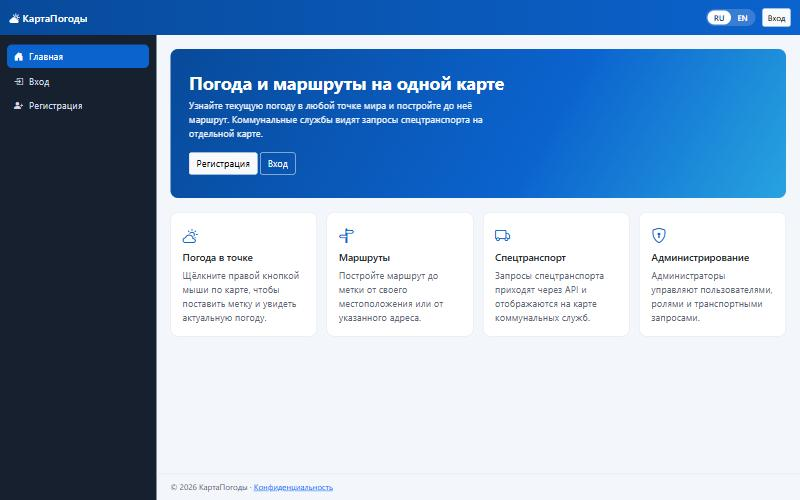
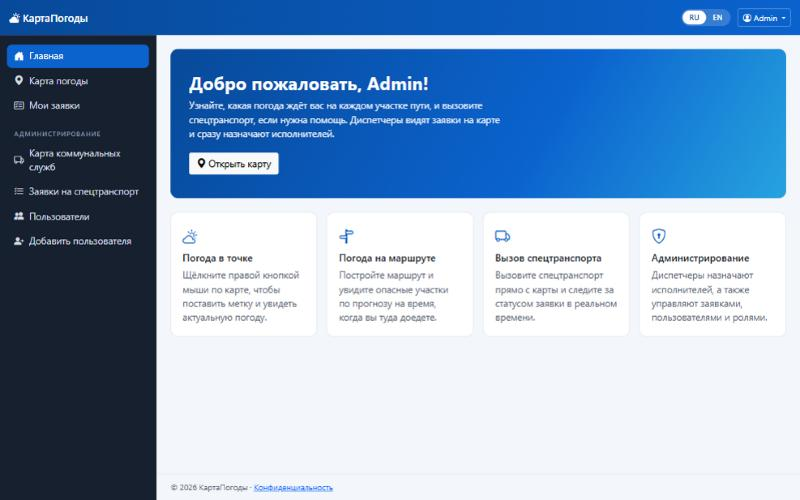
docs: describe route weather and transport dispatch
Update features, architecture, API and screenshots in both READMEs.

diff --git a/README.md b/README.md
@@ -9,9 +9,11 @@
 
 ## Возможности
 
-- **Погода в точке.** Правый клик по карте ставит метку и показывает текущую погоду от OpenWeather на языке интерфейса. Ответы кешируются на 10 минут.
+- **Погода вдоль маршрута.** Маршрут делится на участки, и для каждого берётся прогноз на время, когда вы туда доедете. Опасные участки окрашиваются на карте и перечисляются с причиной: гололёд, снег, ливень, ветер, плохая видимость, гроза. Можно сравнить разное время выезда.
+- **Заявки на спецтранспорт.** Заявку можно отправить с карты или прямо с опасного участка. Статусы: новая → в работе → выполнена или отменена. Автор и исполнитель видят свои заявки на отдельной странице.
+- **Рабочее место диспетчера.** Заявки, фильтр по статусу и назначение исполнителя, открытые заявки на карте. Новые заявки и смена статусов приходят сразу, без перезагрузки страницы (SignalR).
+- **Погода в точке.** Правый клик по карте ставит метку и показывает текущую погоду от OpenWeather на языке интерфейса.
 - **Маршруты.** От вашего местоположения или от адреса, с длиной и временем в пути (Яндекс Карты).
-- **Спецтранспорт.** Пользователи создают запросы через API, администраторы видят их на карте и в таблице.
 - **Администрирование.** Пользователи и роли; нельзя удалить себя и последнего администратора.
 - **Два языка.** Русский и английский с переключателем в шапке.
 - **REST API.** Swagger, JWT, единый формат ошибок ProblemDetails.
@@ -19,18 +21,22 @@
 ## Интерфейс
 
 <p>
-  <img src="docs/screenshots/weather-map-ru.jpg" alt="Погода в выбранной точке" width="49%" />
-  <img src="docs/screenshots/route-en.jpg" alt="Маршрут на английском интерфейсе" width="49%" />
+  <img src="docs/screenshots/route-weather-ru.jpg" alt="Опасные участки на маршруте" width="49%" />
+  <img src="docs/screenshots/route-weather-list-ru.jpg" alt="Прогноз по участкам маршрута" width="49%" />
 </p>
 <p>
-  <img src="docs/screenshots/utility-map-en.jpg" alt="Карта запросов спецтранспорта" width="49%" />
+  <img src="docs/screenshots/transport-live-ru.jpg" alt="Заявка появилась у диспетчера без перезагрузки" width="49%" />
+  <img src="docs/screenshots/utility-map-ru.jpg" alt="Открытые заявки на карте диспетчера" width="49%" />
+</p>
+<p>
+  <img src="docs/screenshots/weather-map-ru.jpg" alt="Погода в выбранной точке" width="49%" />
   <img src="docs/screenshots/home-ru.jpg" alt="Главная страница" width="49%" />
 </p>
-<p><img src="docs/screenshots/mobile-en.jpg" alt="Карта на телефоне" width="240" /></p>
+<p><img src="docs/screenshots/mobile-ru.jpg" alt="Карта на телефоне" width="240" /></p>
 
 ## Стек
 
-.NET 10 · ASP.NET Core (Razor Pages + Web API) · EF Core · SQL Server · JWT и cookie-аутентификация · Serilog · Polly · xUnit · Docker · GitHub Actions
+.NET 10 · ASP.NET Core (Razor Pages + Web API) · SignalR · EF Core · SQL Server · JWT и cookie-аутентификация · Serilog · Polly · xUnit · Docker · GitHub Actions
 
 ## Архитектура
 
@@ -47,6 +53,7 @@ flowchart LR
     Repos --> Db[("SQL Server")]
     Repos -- "кеш 10 мин, повторы" --> OpenWeather["OpenWeather"]
     Browser --> Yandex["Яндекс Карты"]
+    Pages -. "SignalR: статусы заявок" .-> Browser
 ```
 
 Заметные решения:
@@ -55,6 +62,10 @@ flowchart LR
 - **Две схемы входа.** Браузер использует HttpOnly-cookie, клиенты API — JWT. Схему выбирает заголовок `Authorization`.
 - **Роль не приходит от клиента.** Публичная регистрация всегда создаёт обычного пользователя, автор запроса на транспорт берётся из токена.
 - **Секреты вне репозитория.** Настройки проверяются при запуске; без ключа JWT приложение не стартует и объясняет почему.
+- **Экономия лимитов API.** На маршрут уходит не больше 20 запросов прогноза, ответы кешируются на 30 минут по ячейкам около 10 км, а у каждого пользователя есть лимит проверок в минуту. Если прогноз не загрузился для одной точки, она помечается как неизвестная, а не безопасная.
+- **Статусы как конечный автомат.** Переходы и права собраны в одном классе, а токен параллелизма не даёт двум диспетчерам одновременно изменить заявку.
+
+Пороги риска — практическая оценка, а не официальный стандарт дорожной безопасности. Время прибытия рассчитывается по маршруту Яндекса без учёта будущих пробок, а прогноз имеет шаг 3 часа.
 
 ## Локализация
 
@@ -97,7 +108,7 @@ dotnet run --launch-profile https
 
 ### Обновление существующей базы
 
-Миграция `HardenSchema` переименовывает столбцы с сохранением данных, сокращает длины полей и добавляет уникальный индекс на email. Если в базе есть повторяющиеся email, миграция остановится с ошибкой: дубликаты нужно убрать заранее. Перед применением сделайте резервную копию.
+Миграция `HardenSchema` переименовывает столбцы с сохранением данных, сокращает длины полей и добавляет уникальный индекс на email. Если в базе есть повторяющиеся email, миграция остановится с ошибкой: дубликаты нужно убрать заранее. Миграция `TransportWorkflow` добавляет статус и исполнителя, существующие заявки становятся новыми. Перед применением сделайте резервную копию.
 
 ## Тесты
 
@@ -105,10 +116,10 @@ dotnet run --launch-profile https
 dotnet test
 ```
 
-- **UnitTests** — контроллеры и `WeatherRepo`: кеш, формат координат при русской культуре, отсутствие ключа API в ошибках.
-- **IntegrationTests** — приложение целиком через `WebApplicationFactory` на SQLite: права доступа, поддельные токены и cookie, повышение привилегий, XSS, ограничение попыток входа, переключение языка, полнота переводов.
+- **UnitTests** — правила оценки риска, разбиение маршрута, выбор прогноза по времени прибытия, переходы статусов, контроллеры и `WeatherRepo`.
+- **IntegrationTests** — приложение целиком через `WebApplicationFactory` на SQLite: права доступа, поддельные токены и cookie, повышение привилегий, XSS, лимиты запросов, жизненный цикл заявок, доставка уведомлений через SignalR, переключение языка, полнота переводов.
 
-Интеграционные тесты не проверяют миграции SQL Server и работу карт Яндекса в браузере.
+Автотесты не проверяют миграции SQL Server и работу карт Яндекса в браузере: это проверяется вручную.
 
 ## API
 
@@ -117,17 +128,22 @@ dotnet test
 | POST | `/api/auth/register` | все | Регистрация |
 | POST | `/api/auth/login` | все | Получение JWT |
 | GET | `/api/weather?lat=&lon=` | вход | Погода в точке |
-| POST | `/api/transport-requests` | вход | Запрос транспорта |
-| GET | `/api/transport-requests`, `/{id}` | админ | Просмотр запросов |
+| POST | `/api/weather/route` | вход | Оценка погоды вдоль маршрута |
+| POST | `/api/transport-requests` | вход | Создание заявки |
+| GET | `/api/transport-requests/mine` | вход | Мои заявки |
+| GET | `/api/transport-requests?status=`, `/{id}` | админ | Просмотр заявок |
+| POST | `/api/transport-requests/{id}/assign` | админ | Назначение исполнителя |
+| POST | `/api/transport-requests/{id}/complete` | админ, исполнитель | Завершение заявки |
+| POST | `/api/transport-requests/{id}/cancel` | админ, автор новой заявки | Отмена заявки |
 | PUT, DELETE | `/api/transport-requests/{id}` | админ | Изменение и удаление |
 | GET, POST | `/api/users` | админ | Список и создание пользователей |
 | GET, PUT, DELETE | `/api/users/{email}` | админ | Просмотр, изменение, удаление |
 | GET | `/health` | все | Состояние приложения и базы |
 
-Полное описание — в Swagger.
+Полное описание — в Swagger. Уведомления приходят через хаб SignalR `/hubs/transport`, событие `requestChanged`.
 
 ## Планы
 
-- Погода вдоль всего маршрута с подсветкой опасных участков.
-- Прогноз на несколько дней и погодные оповещения.
-- Создание запроса на транспорт прямо с карты и статусы его выполнения.
+- Погодные оповещения по сохранённым маршрутам: письмо или Telegram.
+- Прогноз на несколько дней и погодные слои на карте.
+- Панель аналитики: заявки по дням и районам.

diff --git a/README.en.md b/README.en.md
@@ -9,9 +9,11 @@ An ASP.NET Core web application: current weather at any point on a map, routes t
 
 ## Features
 
-- **Weather at a point.** Right-click the map to place a marker and see the current OpenWeather conditions in the interface language. Responses are cached for 10 minutes.
+- **Weather along the route.** A route is split into stretches, each rated by the forecast for when you get there. Dangerous stretches are coloured on the map and listed with the reason: ice, snow, heavy rain, wind, poor visibility or a thunderstorm. You can compare departure times.
+- **Special transport requests.** Send a request from the map or right from a dangerous stretch. Statuses: new → in progress → completed or cancelled. Authors and assignees see their requests on a dedicated page.
+- **Dispatcher workspace.** Requests with a status filter and assignment, open requests on a map. New requests and status changes arrive instantly, without a page reload (SignalR).
+- **Weather at a point.** Right-click the map to place a marker and see the current OpenWeather conditions in the interface language.
 - **Routes.** From your location or from an address, with distance and travel time (Yandex Maps).
-- **Special transport.** Users create requests through the API; administrators see them on a map and in a table.
 - **Administration.** Users and roles; you cannot delete yourself or the last administrator.
 - **Two languages.** Russian and English with a switcher in the header.
 - **REST API.** Swagger, JWT and a uniform ProblemDetails error format.
@@ -19,18 +21,22 @@ An ASP.NET Core web application: current weather at any point on a map, routes t
 ## Screenshots
 
 <p>
-  <img src="docs/screenshots/weather-map-ru.jpg" alt="Weather at the chosen point" width="49%" />
-  <img src="docs/screenshots/route-en.jpg" alt="A route in the English interface" width="49%" />
+  <img src="docs/screenshots/route-weather-ru.jpg" alt="Dangerous stretches on a route" width="49%" />
+  <img src="docs/screenshots/route-weather-list-ru.jpg" alt="Forecast for each stretch of the route" width="49%" />
 </p>
 <p>
-  <img src="docs/screenshots/utility-map-en.jpg" alt="Map of special transport requests" width="49%" />
+  <img src="docs/screenshots/transport-live-ru.jpg" alt="A request reaching the dispatcher without a reload" width="49%" />
+  <img src="docs/screenshots/utility-map-ru.jpg" alt="Open requests on the dispatcher map" width="49%" />
+</p>
+<p>
+  <img src="docs/screenshots/weather-map-ru.jpg" alt="Weather at the chosen point" width="49%" />
   <img src="docs/screenshots/home-ru.jpg" alt="Home page" width="49%" />
 </p>
-<p><img src="docs/screenshots/mobile-en.jpg" alt="The map on a phone" width="240" /></p>
+<p><img src="docs/screenshots/mobile-ru.jpg" alt="The map on a phone" width="240" /></p>
 
 ## Stack
 
-.NET 10 · ASP.NET Core (Razor Pages + Web API) · EF Core · SQL Server · JWT and cookie authentication · Serilog · Polly · xUnit · Docker · GitHub Actions
+.NET 10 · ASP.NET Core (Razor Pages + Web API) · SignalR · EF Core · SQL Server · JWT and cookie authentication · Serilog · Polly · xUnit · Docker · GitHub Actions
 
 ## Architecture
 
@@ -47,6 +53,7 @@ flowchart LR
     Repos --> Db[("SQL Server")]
     Repos -- "10 min cache, retries" --> OpenWeather["OpenWeather"]
     Browser --> Yandex["Yandex Maps"]
+    Pages -. "SignalR: request statuses" .-> Browser
 ```
 
 Notable decisions:
@@ -55,6 +62,10 @@ Notable decisions:
 - **Two authentication schemes.** Browsers use an HttpOnly cookie, API clients use a JWT. The `Authorization` header selects the scheme.
 - **Roles never come from the client.** Public registration always creates a regular user, and the author of a transport request is taken from the token.
 - **Secrets stay out of the repository.** Settings are validated at startup; without a JWT key the app refuses to start and says why.
+- **API quota care.** A route costs at most 20 forecast requests, responses are cached for 30 minutes per cell of about 10 km, and each user has a per-minute budget. If the forecast fails for one point, that point is marked unknown rather than safe.
+- **Statuses as a state machine.** Transitions and permissions live in one class, and a concurrency token stops two dispatchers from changing a request at once.
+
+Risk thresholds are practical estimates, not an official road safety standard. Arrival times come from the Yandex route without future traffic, and the forecast has a 3 hour step.
 
 ## Localization
 
@@ -97,7 +108,7 @@ dotnet run --launch-profile https
 
 ### Upgrading an existing database
 
-The `HardenSchema` migration renames columns while keeping the data, shortens field lengths and adds a unique index on email. If the database contains duplicate emails the migration stops with an error, so remove them first. Back up the database before applying it.
+The `HardenSchema` migration renames columns while keeping the data, shortens field lengths and adds a unique index on email. If the database contains duplicate emails the migration stops with an error, so remove them first. The `TransportWorkflow` migration adds the status and assignee, and existing requests become new. Back up the database before applying them.
 
 ## Tests
 
@@ -105,10 +116,10 @@ The `HardenSchema` migration renames columns while keeping the data, shortens fi
 dotnet test
 ```
 
-- **UnitTests** cover controllers and `WeatherRepo`: caching, coordinate formatting under the Russian culture, and keeping the API key out of errors.
-- **IntegrationTests** run the whole app through `WebApplicationFactory` on SQLite: access rules, forged tokens and cookies, privilege escalation, XSS, login rate limiting, language switching and translation completeness.
+- **UnitTests** cover risk rules, route splitting, choosing the forecast by arrival time, status transitions, controllers and `WeatherRepo`.
+- **IntegrationTests** run the whole app through `WebApplicationFactory` on SQLite: access rules, forged tokens and cookies, privilege escalation, XSS, rate limits, the request lifecycle, SignalR delivery, language switching and translation completeness.
 
-Integration tests do not cover SQL Server migrations or Yandex Maps in a browser.
+Automated tests do not cover SQL Server migrations or Yandex Maps in a browser; those are checked by hand.
 
 ## API
 
@@ -117,17 +128,22 @@ Integration tests do not cover SQL Server migrations or Yandex Maps in a browser
 | POST | `/api/auth/register` | public | Sign up |
 | POST | `/api/auth/login` | public | Get a JWT |
 | GET | `/api/weather?lat=&lon=` | signed in | Weather at a point |
-| POST | `/api/transport-requests` | signed in | Request transport |
-| GET | `/api/transport-requests`, `/{id}` | admin | View requests |
+| POST | `/api/weather/route` | signed in | Assess the weather along a route |
+| POST | `/api/transport-requests` | signed in | Create a request |
+| GET | `/api/transport-requests/mine` | signed in | Your requests |
+| GET | `/api/transport-requests?status=`, `/{id}` | admin | View requests |
+| POST | `/api/transport-requests/{id}/assign` | admin | Assign an executor |
+| POST | `/api/transport-requests/{id}/complete` | admin, assignee | Complete a request |
+| POST | `/api/transport-requests/{id}/cancel` | admin, author of a new request | Cancel a request |
 | PUT, DELETE | `/api/transport-requests/{id}` | admin | Update and delete |
 | GET, POST | `/api/users` | admin | List and create users |
 | GET, PUT, DELETE | `/api/users/{email}` | admin | View, update, delete |
 | GET | `/health` | public | App and database status |
 
-See Swagger for the full description.
+See Swagger for the full description. Live updates arrive through the `/hubs/transport` SignalR hub as `requestChanged` events.
 
 ## Roadmap
 
-- Weather along the whole route with dangerous segments highlighted.
-- Multi-day forecasts and weather alerts.
-- Creating transport requests right from the map, with fulfilment statuses.
+- Weather alerts for saved routes by email or Telegram.
+- Multi-day forecasts and weather layers on the map.
+- An analytics dashboard: requests by day and area.
